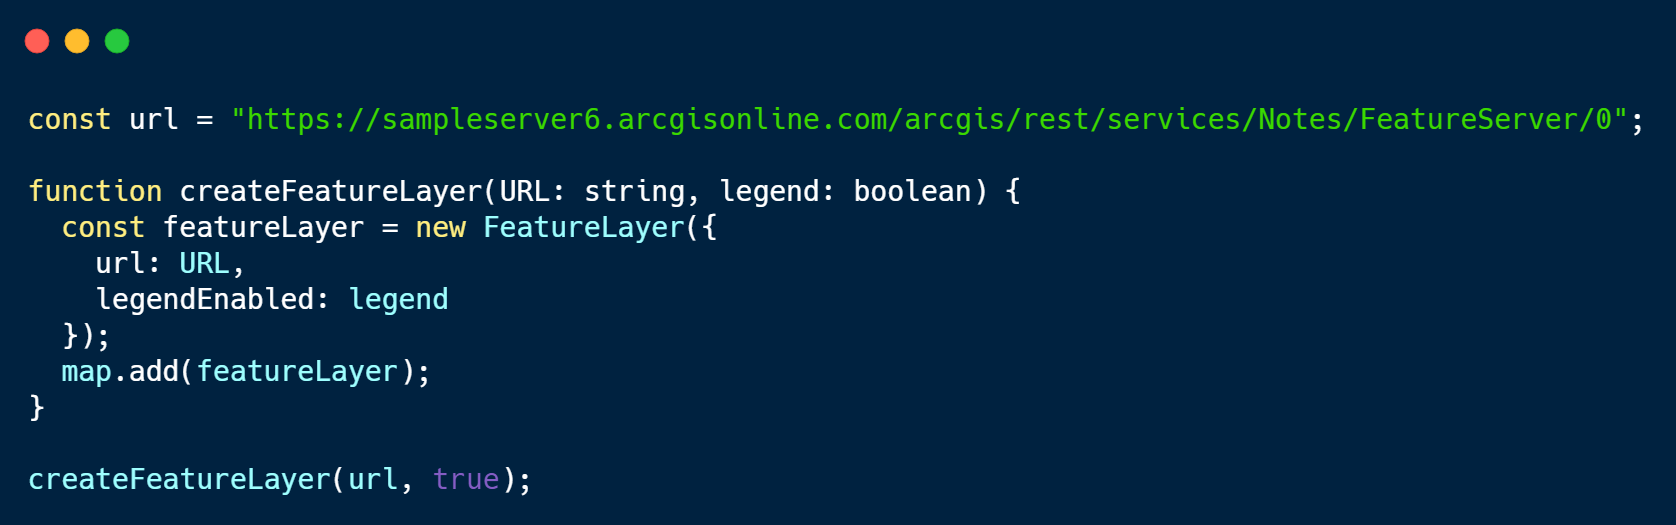
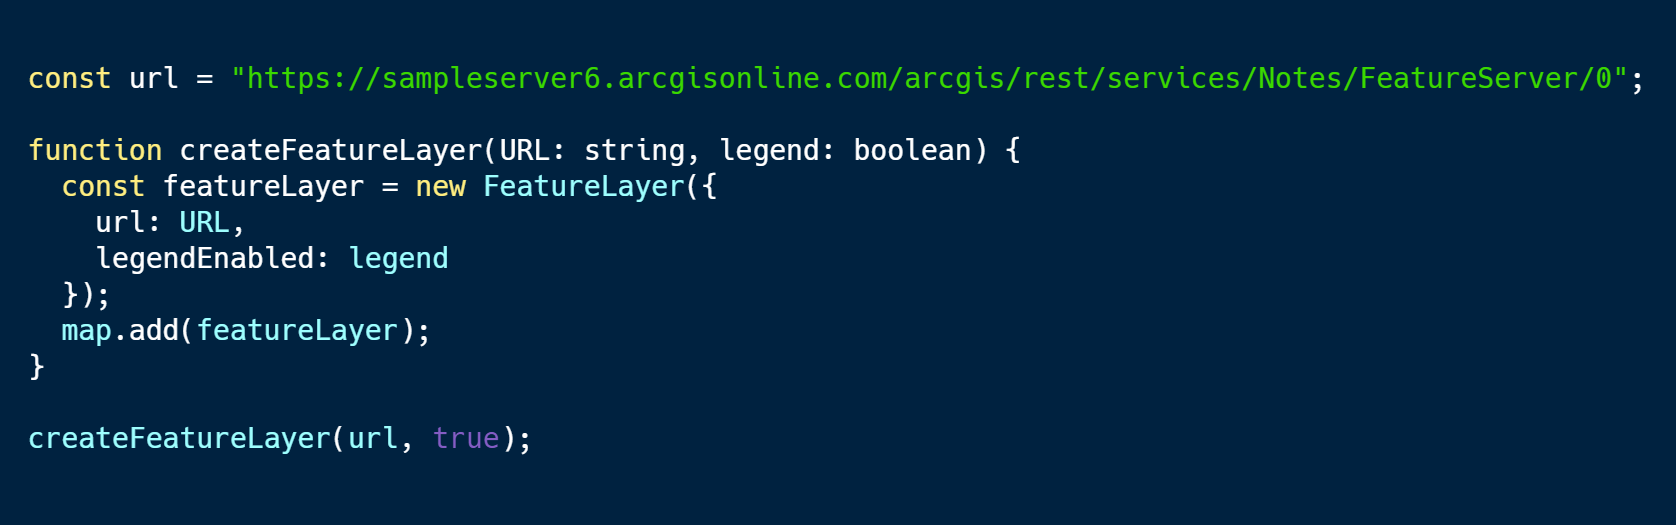
You're giving me moves that hit from all sides

diff --git a/uc/Using-TypeScript-with-ArcGIS-API-for-JavaScript/index.md b/uc/Using-TypeScript-with-ArcGIS-API-for-JavaScript/index.md
@@ -61,7 +61,8 @@ Enhanced IDE support
 </br>
 Makes use of the latest JavaScript features
 </br>
-<img src="Images/promise_async_await.png" alt="TypeScript_Example3" width="1700" height="646">
+</br>
+<img src="Images/promise_async_await_carbon4.png" alt="TypeScript_Example3">
 
 ----
 
